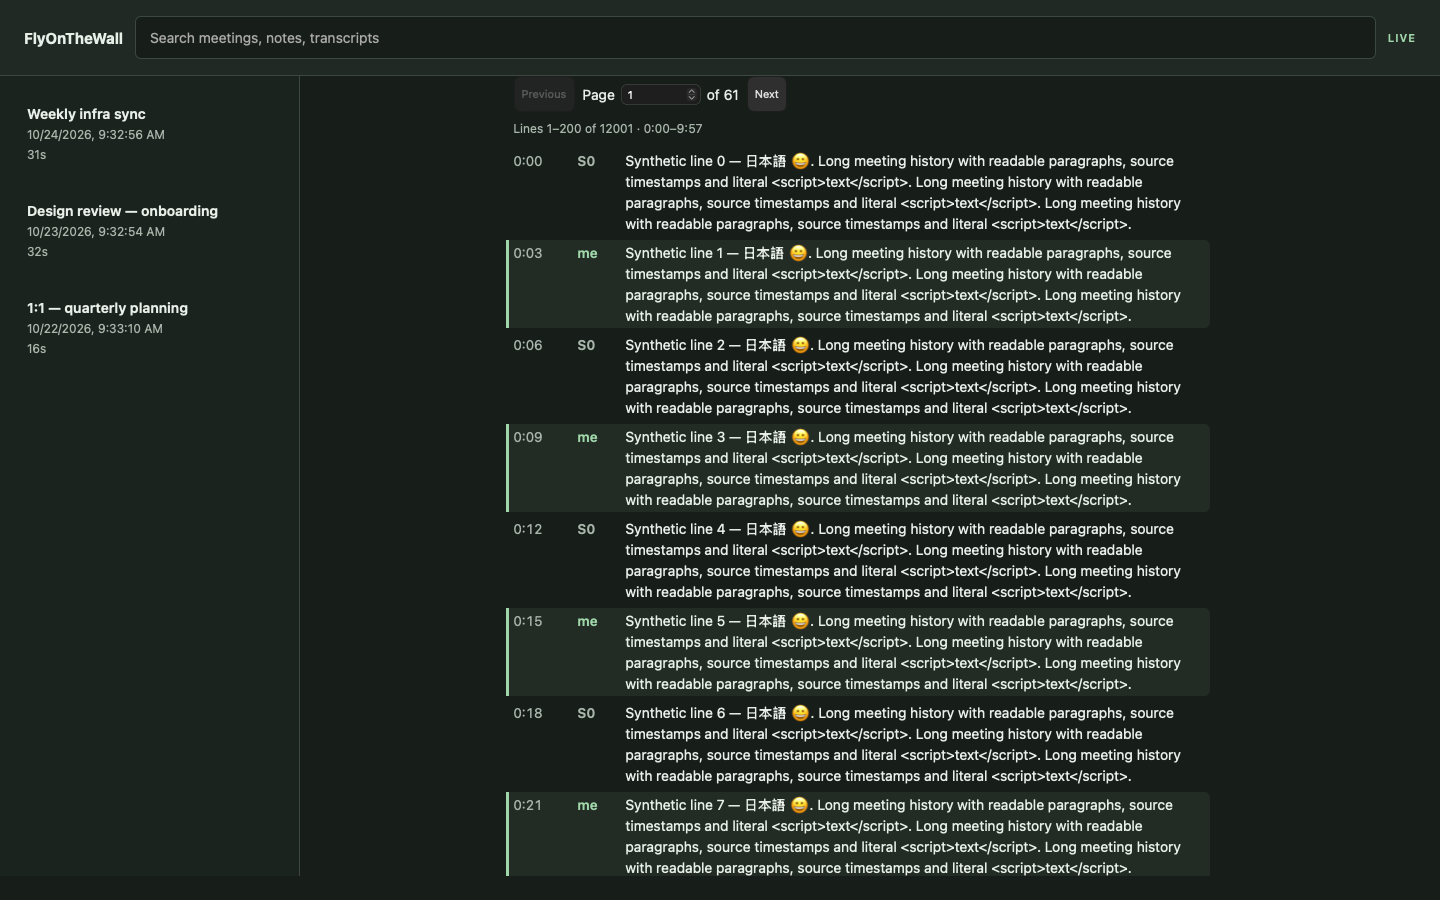
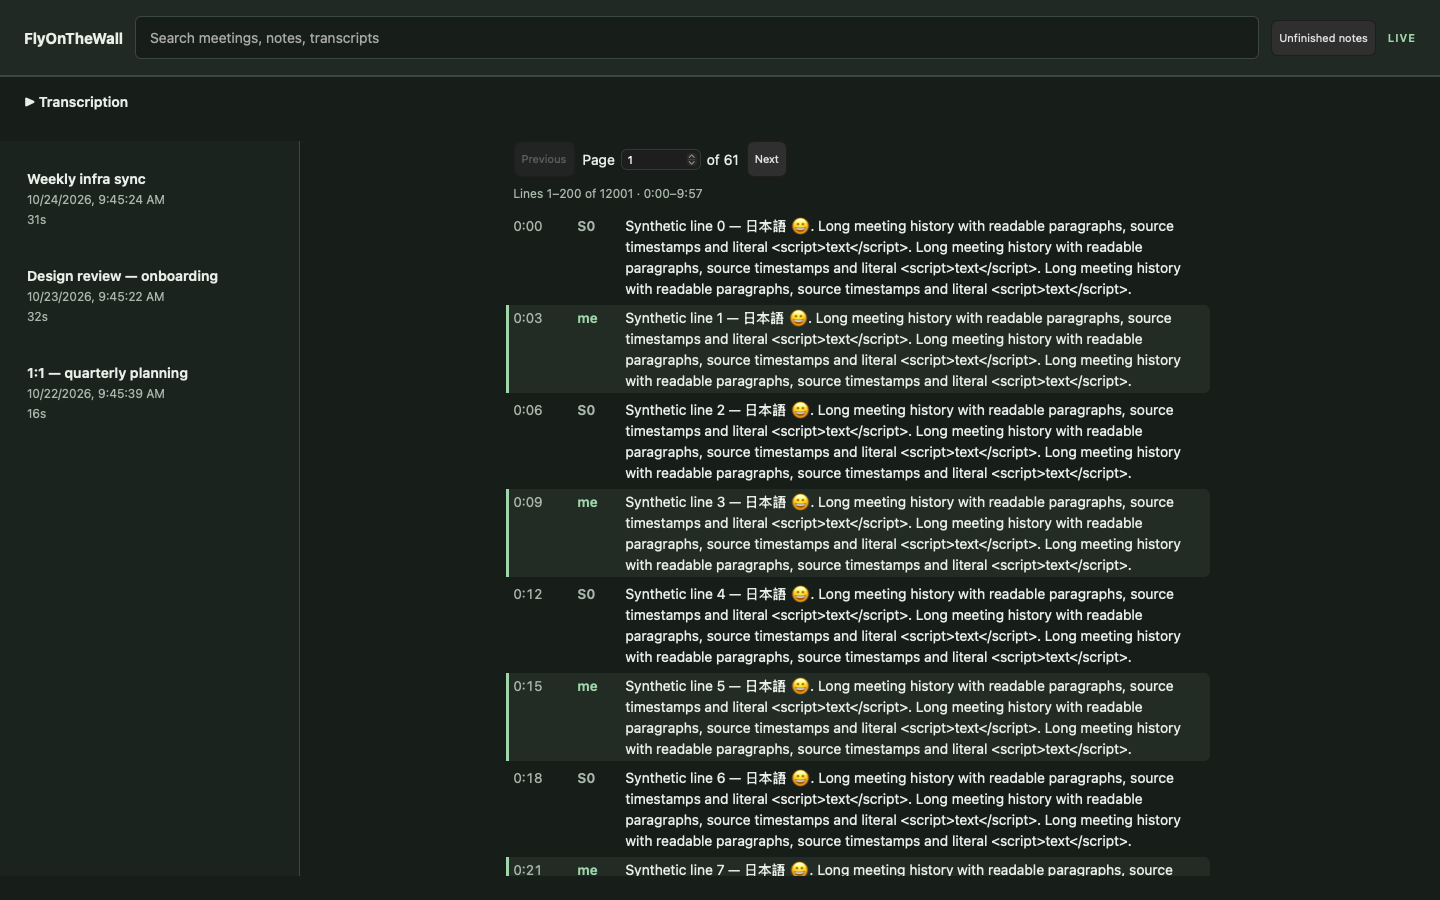
Preserve keyboard focus at saved transcript page boundaries

diff --git a/crates/fotw-web/tests/fixtures/saved-transcript-webkit.js b/crates/fotw-web/tests/fixtures/saved-transcript-webkit.js
@@ -2,6 +2,7 @@
 // It replaces fetched meeting data in memory; it never captures audio or writes
 // fabricated meetings to the user's library. The optional baseline renderer is
 // supplied from the base commit by the external comparison runner.
+async function runSavedTranscriptFixture() {
 const sleep=ms=>new Promise(resolve=>setTimeout(resolve,ms));
 const wait=async condition=>{const until=Date.now()+10000;while(!condition()){if(Date.now()>until)throw Error('saved transcript fixture timed out');await sleep(30);}};
 await wait(()=>document.querySelectorAll('#list .meeting').length===3);
@@ -31,6 +32,12 @@ result.final_clock=document.querySelector('#segments .at').textContent;
 result.copy_complete=storedTranscriptPayload(detail).text.includes('Synthetic line 0 —')&&storedTranscriptPayload(detail).text.includes('Synthetic line 12000 —');
 result.final_next_disabled=next.disabled;
 if(!result.focus_preserved||!result.last_line_reachable||!result.copy_complete||!result.final_next_disabled||result.final_clock!=='600:00')throw Error(JSON.stringify(result));
+field.value='60';field.dispatchEvent(new Event('change'));next.focus();next.click();
+result.last_boundary_focus=document.activeElement===field;
+field.value='2';field.dispatchEvent(new Event('change'));
+const previous=document.querySelector('[aria-label="Previous transcript page"]');previous.focus();previous.click();
+result.first_boundary_focus=document.activeElement===field;
+if(!result.last_boundary_focus||!result.first_boundary_focus)throw Error(JSON.stringify(result));
 field.value='1';field.dispatchEvent(new Event('change'));
 // The actual focused input receives a native Tab event within this owned window.
 field.focus();window.webkit.messageHandlers.fixtureTab.postMessage({option:true});await sleep(100);
@@ -48,3 +55,4 @@ if(!result.native_tab_reached_next||!result.controls_fit||!result.no_horizontal_
 document.querySelector('.transcript-pages').scrollIntoView({block:'start'});
 await sleep(50);
 return result;
+}

diff --git a/crates/fotw-web/ui/app.js b/crates/fotw-web/ui/app.js
@@ -592,6 +592,10 @@ function mountSavedTranscript(section, body, segments) {
     }
     if (controls) {
       field.value = String(page + 1);
+      // Disabling a focused button can clear focus in WebKit. Transfer it
+      // before updating boundary state; ordinary page changes keep focus.
+      if ((page === 0 && document.activeElement === previous)
+          || (page === pages - 1 && document.activeElement === next)) field.focus();
       previous.disabled = page === 0;
       next.disabled = page === pages - 1;
       range.textContent = "Lines " + (start + 1) + "–" + end + " of " + ordered.length

diff --git a/docs/dashboard-refresh.md b/docs/dashboard-refresh.md
@@ -114,7 +114,7 @@ The runtime regression first failed because opening 4,001 lines constructed all
 rows and there was no keyboard-accessible page selector. It now traverses every
 page, verifies exact ordered coverage, bounds row construction for each action,
 checks full copy, original input identity, invalid input, short/empty meetings,
-and stable control identity. All 129 UI tests and full local `just ci` pass.
+and stable control identity. All 130 UI tests and full local `just ci` pass.
 
 An owned nonpersistent, nonactivating WKWebView on macOS 26.4 loaded the actual
 UI from a temporary encrypted `ui_preview` library. The in-memory fixture
@@ -131,7 +131,7 @@ clipboard, global input or user library was involved.
 | --- | ---: | ---: |
 | Created elements, including detail chrome | 48,016 | 819 |
 | Attached transcript rows | 12,001 | 200 |
-| Script plus forced layout | 630 ms | 40 ms |
+| Script plus forced layout | 659 ms | 41 ms |
 
 These timings describe one fixture run, not a general latency guarantee or a
 process-memory measurement. The final six width/appearance checks and actual
@@ -151,3 +151,11 @@ cannot prove active-window focus-ring acceptance; no activation was attempted.
 The existing focus rule remains. Long-history process memory/GC, active-window
 keyboard/screen-reader acceptance, and the full live recording/zoom matrix remain
 open for #123. All owned fixture processes and temporary libraries were removed.
+
+Review followup: a behavioral RED reproduced losing control focus when Next or
+Previous became disabled at a page boundary. The renderer now moves focus to
+the page field before disabling the activated button. The native fixture
+confirms both boundaries in every final width/appearance/zoom run, and the
+runtime copy assertion checks all 4,001 copied lines in order. The browser
+fixture is a standard async function; pass its source followed by
+`return await runSavedTranscriptFixture();` to `WKWebView.callAsyncJavaScript`.
